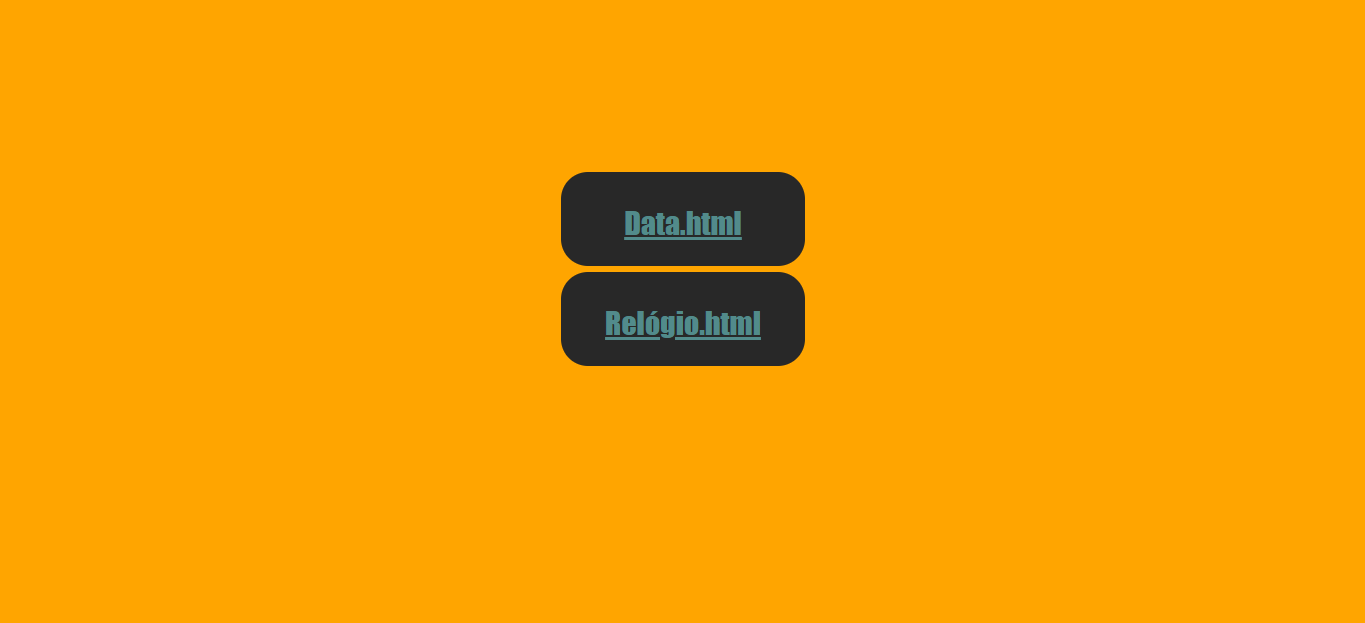
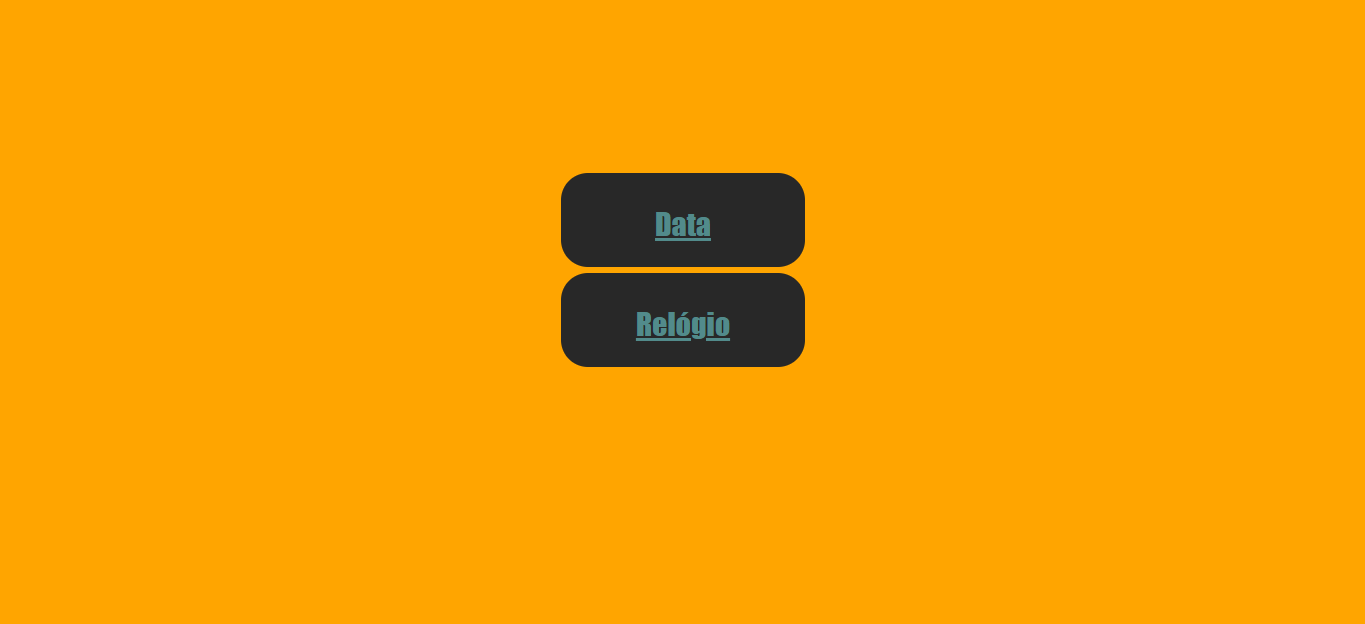
index

Changed region(s): [[0.4308, 0.488, 0.5538, 0.549], [0.4308, 0.3355, 0.5538, 0.3965], [0.4308, 0.427, 0.5846, 0.4575]]

diff --git a/index.html b/index.html
@@ -7,8 +7,8 @@
 </head>
 <body>
     <div class="displaycentral">
-    <button class="fococentral"><a class="fococentral-clicavel" href="exercicio1.html">Data.html</a> <div>
-    <button class="fococentral"><a class="fococentral-clicavel" href="exercicio2.html">Relógio.html</a> <div>
+    <button class="fococentral"><a class="fococentral-clicavel" href="exercicio1.html">Data</a> <div>
+    <button class="fococentral"><a class="fococentral-clicavel" href="exercicio2.html">Relógio</a> <div>
 
     </div>   
 </body>

diff --git a/README.md b/README.md
@@ -4,7 +4,7 @@ Todos os exercícios poderão ser acessados pelo index e vice-versa
 
 #index.html
 <img src="zfotoindex.png">
-#exercício1.html
+#exercicio1.html
 <img src="zfotoex1.png">
 #exercicio2.html
 <img src="zfotoex2.png">
